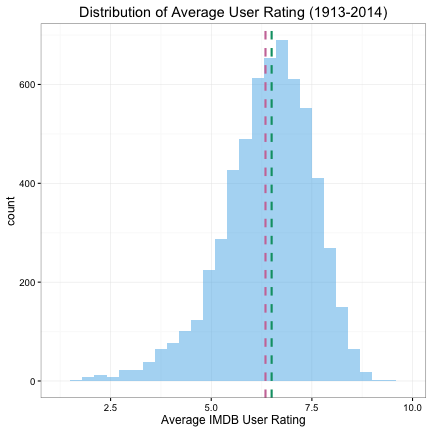
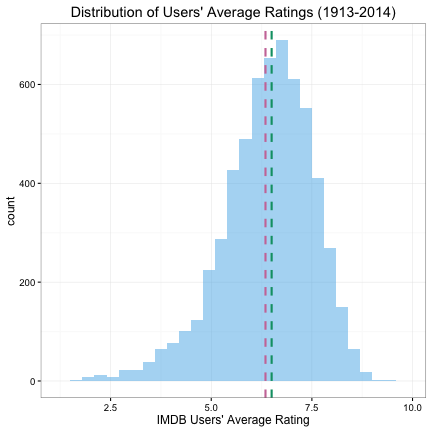
update histogram section

Changed region(s): [[0.1505, 0.0, 0.9028, 0.0602], [0.3611, 0.963, 0.7222, 0.9931]]

diff --git a/manuscript/03-01-histogram.md b/manuscript/03-01-histogram.md
@@ -7,7 +7,7 @@ A>
 library(ezplot)
 ```
 
-The `ezplot` library comes with a dataset of films. You can run the command `?films` to see the descriptions of its variables. If you do that, you'll see that it has a variable called `rating`, which measures the average IMDB user rating. Now, check its type by running the command `str()`.
+The `ezplot` library comes with a dataset of films. You can run the command `?films` to see the descriptions of its variables. If you do that, you'll see that it has a variable called `rating`, which measures the IMDB users' average ratings. Now, check its type by running the command `str()`.
 
 A>
 ```r
@@ -20,13 +20,13 @@ The output `num` says that R treats it as a numeric variable. A numeric variable
 A>
 ```r
 plt = mk_distplot(films)
-title = "Distribution of Average User Rating (1913-2014)"
-p = plt("rating", binw=0.3, xlab="Average IMDB User Rating", main=title,
+title = "Distribution of Users' Average Ratings (1913-2014)"
+p = plt("rating", binw=0.3, xlab="IMDB Users' Average Rating", main=title,
         add_vline_mean=T) 
 print(p)
 ```
 
-![Average Ratings Distribution](images/hist_rating_p1-1.png) 
+![Avg. Ratings with Mean Line](images/hist_rating_p1-1.png) 
 
 Notice how we used `mk_distplot()`. We passed it the data frame `films` as input. It returned a function, and we assigned it to the variable `plt`. We then used the function `plt()` to draw the histogram. Note that once again, we had to feed `plt()` the variable name, in this case, `"rating"` in quotes, instead of the variable itself. Do you recall the same usage from the last chapter? Yes, this is how you use every plotting function in ezplot. I assure you this usage pattern will reappear again and again in later chapters. 
 
@@ -34,11 +34,42 @@ Here're some explanations for the other parameters: a histogram is made of bins,
 
 A>
 ```r
-p = plt("rating", binw=0.3, xlab="Average IMDB User Rating", main=title,
+p = plt("rating", binw=0.3, xlab="IMDB Users' Average Rating", main=title,
         add_vline_mean=T, add_vline_median=T) 
 print(p)
 ```
 
-![Average Ratings Distribution](images/hist_rating_p2-1.png) 
+![Avg. Ratings with Mean and Median Lines](images/hist_rating_p2-1.png) 
 
-You can read the complete description of the parameters by running `?mk_distplot()`.
+Now, I want you to run `?mk_distplot()` and read the complete description line by line. When you meet the word `fillby`, stop and read it again. Do you understand what it does? No? That's ok because that's what we're talking about next. The data frame `films` has a variable called `made_money`. Let's use `str()` to check its type.
+
+A>
+```r
+str(films$made_money)
+ Factor w/ 2 levels "no","yes": 2 2 2 2 2 2 2 1 2 2 ...
+```
+
+We see `made_money` is a factor with two levels: yes, no. It indicates if a film made money or not. We've looked at the overall distribution of the users' average ratings. An interesting question is what do the distributions of the users' average ratings look like for films that made money vs. the ones that lost money. It turns out we can easily answer this question pictorially by setting `fillby = "made_money"`.    
+
+A>
+```r
+p = plt("rating", fillby="made_money", binw=0.3, 
+        xlab="IMDB Users' Average Rating", main=title) 
+print(p)
+```
+
+![Avg. Ratings of Two Film Groups](images/hist_rating_by_made_money-1.png) 
+
+We see the green histogram (films that made money) completely overshadows the red histograms (films that didn't make money or lost money). What conclusion can you draw? Write it down. Now, let's check the size of each group.
+
+A>
+```r
+table(films$made_money)
+```
+
+A>
+```
+  no  yes 
+1831 4113 
+```
+We see the number of films that made money is more than twice of the number of films that didn't make money or lost money. Does this change your initial conclusion? What's your new conclusion?
